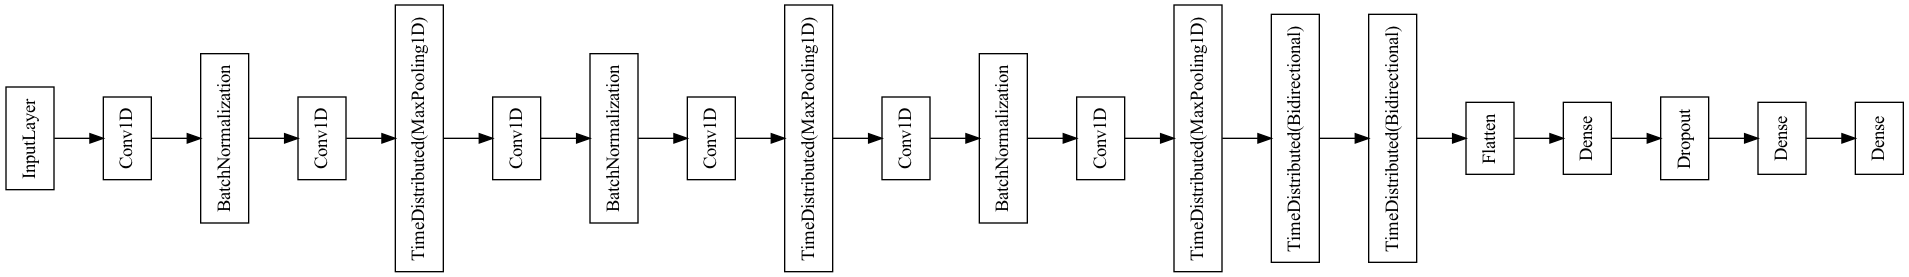
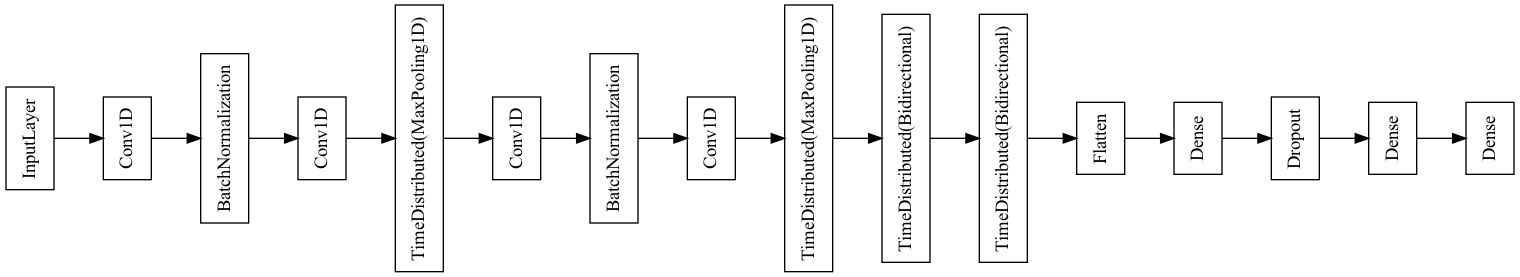
update architecture figures for report

diff --git a/src/models/RCNNfusioned.py b/src/models/RCNNfusioned.py
@@ -53,7 +53,7 @@ class RCNN_fusioned():
         dropout_2 = Dropout(0.1)(dense1_2)
         dense2_2 = Dense(512, activation='tanh')(dropout_2)
 
-        concat = Concatenate()([dense2_2, flatten_2])
+        concat = Concatenate()([dense2_1, dense2_2])
 
         if multiclass:
             output = Dense(units=n_outputs, activation='softmax')(concat)
